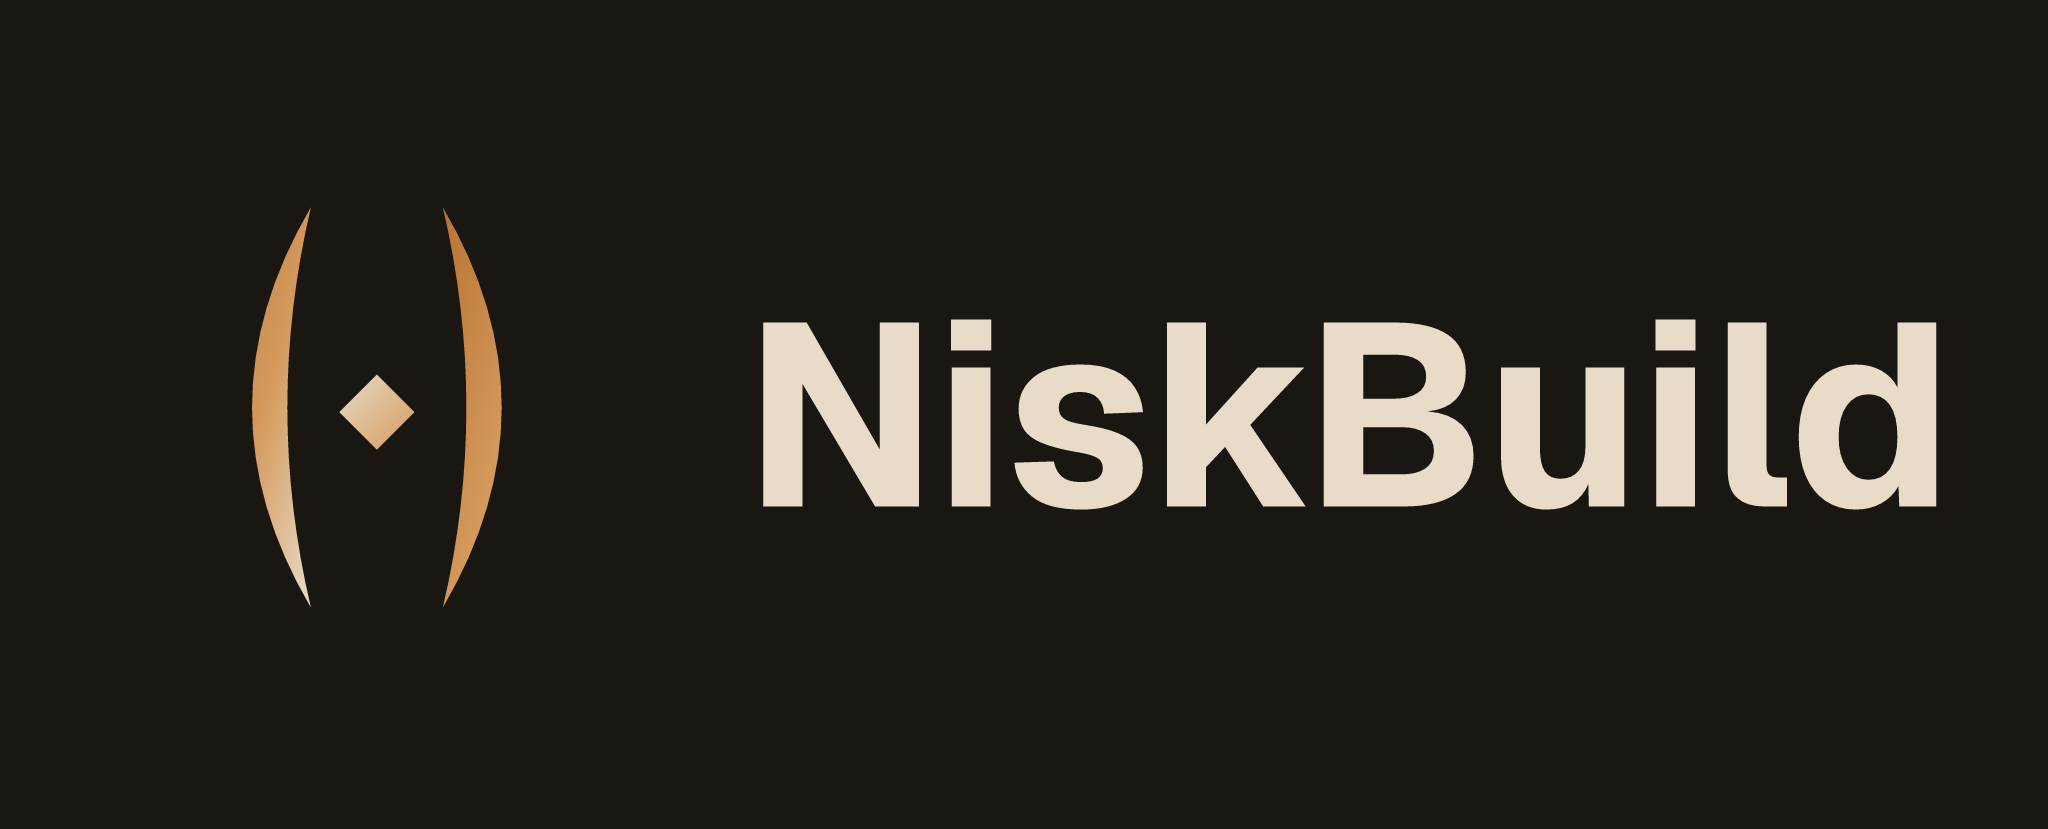
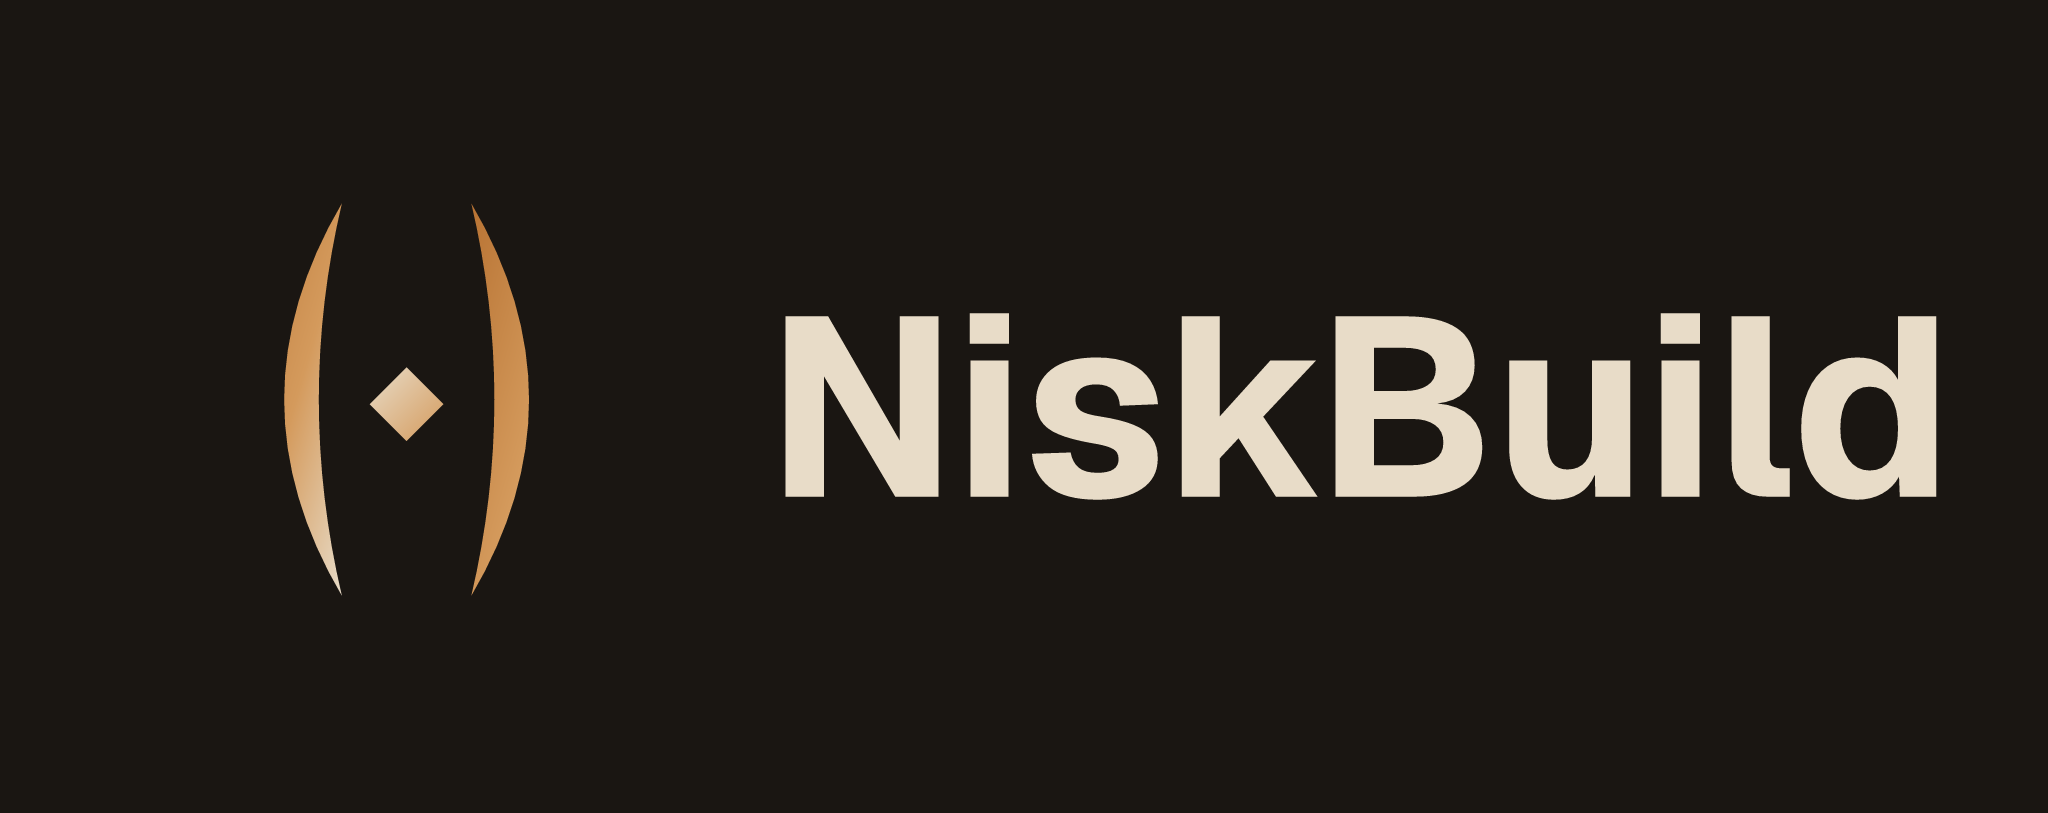
Brand kit: add typography-only wordmark download (dark + transparent), fix lockup dark-plate padding/contour, fix transparent lockup text contrast with iron fill + copper stroke

Changed region(s): [[0.375, 0.369, 0.8125, 0.615], [0.125, 0.2768, 0.2812, 0.7073], [0.8438, 0.3998, 0.875, 0.615]]

diff --git a/lib/brand-assets.ts b/lib/brand-assets.ts
@@ -36,14 +36,24 @@ export const BRAND_LOGO = {
     aspectRatio: 1,
     alt: 'NiskBuild',
   },
+  wordmarkDark: {
+    src: '/brand/niskbuild-wordmark-dark.svg',
+    aspectRatio: 1189 / 354,
+    alt: 'NiskBuild wordmark on dark plate',
+  },
+  wordmarkTransparent: {
+    src: '/brand/niskbuild-wordmark-transparent.svg',
+    aspectRatio: 1195 / 360,
+    alt: 'NiskBuild wordmark (transparent)',
+  },
   wordmarkLockupDark: {
     src: '/brand/niskbuild-wordmark-lockup-dark.svg',
-    aspectRatio: 1739 / 704,
+    aspectRatio: 1773 / 704,
     alt: 'NiskBuild wordmark lockup on dark plate',
   },
   wordmarkLockupTransparent: {
     src: '/brand/niskbuild-wordmark-lockup-transparent.svg',
-    aspectRatio: 1739 / 704,
+    aspectRatio: 1779 / 710,
     alt: 'NiskBuild wordmark lockup (transparent)',
   },
 } as const;
@@ -90,7 +100,7 @@ export const BRAND_PALETTE_SWATCHES = [
   { name: 'Cream light (preview)', token: 'creamLight', hex: BRAND_COLORS.creamLight, usage: 'Transparent-asset preview surface' },
   { name: 'Copper primary', token: '--copper-primary', hex: BRAND_COLORS.copperPrimary, usage: 'Buttons, borders, logo facets' },
   { name: 'Copper light / melt', token: '--copper-melt', hex: BRAND_COLORS.copperMelt, usage: 'Links on Docs, taglines, highlights' },
-  { name: 'Cream / parchment', token: '--foreground', hex: BRAND_COLORS.parchment, usage: 'Body text + wordmark fill' },
+  { name: 'Cream / parchment', token: '--foreground', hex: BRAND_COLORS.parchment, usage: 'Body text on dark UI / dark-plate wordmarks' },
 ] as const;
 
 function iconSizes(variant: 'dark' | 'transparent'): IconSizeOption[] {
@@ -147,16 +157,53 @@ export const BRAND_ASSET_GROUPS: BrandAssetGroup[] = [
     ],
   },
   {
+    id: 'wordmark-typography',
+    title: 'Wordmark typography',
+    blurb:
+      '“NiskBuild” only — Geist Bold outlined paths, no icon. SVG + PNG at 2048px wide. Transparent uses iron fill + copper outline for contrast on light grounds.',
+    paired: true,
+    assets: [
+      {
+        id: 'wordmark-dark',
+        label: 'Wordmark — dark plate',
+        description: 'Typography only on forge dark (#1a1612). Parchment fill for dark UI and banners.',
+        useCase: 'Nav bars · Footers · Dark social',
+        previewSrc: BRAND_LOGO.wordmarkDark.src,
+        previewBg: 'dark',
+        svgHref: '/brand/niskbuild-wordmark-dark.svg',
+        svgFilename: 'niskbuild-wordmark-dark.svg',
+        pngHref: '/brand/niskbuild-wordmark-dark-2048.png',
+        pngFilename: 'niskbuild-wordmark-dark-2048.png',
+        pngWidth: 2048,
+        pngHeight: 610,
+      },
+      {
+        id: 'wordmark-transparent',
+        label: 'Wordmark — transparent',
+        description: 'Typography only, no background. Iron fill (#1a1612) with copper stroke for legibility on light/neutral surfaces.',
+        useCase: 'Light layouts · Print · Watermarks',
+        previewSrc: BRAND_LOGO.wordmarkTransparent.src,
+        previewBg: 'light',
+        svgHref: '/brand/niskbuild-wordmark-transparent.svg',
+        svgFilename: 'niskbuild-wordmark-transparent.svg',
+        pngHref: '/brand/niskbuild-wordmark-transparent-2048.png',
+        pngFilename: 'niskbuild-wordmark-transparent-2048.png',
+        pngWidth: 2048,
+        pngHeight: 617,
+      },
+    ],
+  },
+  {
     id: 'wordmark-lockups',
     title: 'Wordmark lockup',
     blurb:
-      'Icon + “NiskBuild” in Geist Bold (outlined paths — portable, no font install). SVG vector + PNG at 2048px wide.',
+      'Icon + “NiskBuild” in Geist Bold (outlined paths). SVG vector + PNG at 2048px wide. Dark plate fully padded to the mark contour.',
     paired: true,
     assets: [
       {
         id: 'lockup-dark',
         label: 'Lockup — dark plate',
-        description: 'Icon + Geist wordmark on forge dark (#1a1612). Matches the in-app logo treatment.',
+        description: 'Icon + Geist wordmark on forge dark (#1a1612), plate sized to fully contain the lockup with padding.',
         useCase: 'Press headers · Dark social · Presentations',
         previewSrc: BRAND_LOGO.wordmarkLockupDark.src,
         previewBg: 'dark',
@@ -165,13 +212,13 @@ export const BRAND_ASSET_GROUPS: BrandAssetGroup[] = [
         pngHref: '/brand/niskbuild-wordmark-lockup-dark-2048.png',
         pngFilename: 'niskbuild-wordmark-lockup-dark-2048.png',
         pngWidth: 2048,
-        pngHeight: 829,
+        pngHeight: 813,
       },
       {
         id: 'lockup-transparent',
         label: 'Lockup — transparent',
-        description: 'Same lockup with transparent background. Wordmark fill is parchment (#e8dcc8).',
-        useCase: 'Light or dark layouts · Watermarks · Slide decks',
+        description: 'Same lockup, no plate. Wordmark uses iron fill + copper outline so it stays readable on light backgrounds; icon keeps the copper gradient.',
+        useCase: 'Light layouts · Slide decks · Co-branding',
         previewSrc: BRAND_LOGO.wordmarkLockupTransparent.src,
         previewBg: 'light',
         svgHref: '/brand/niskbuild-wordmark-lockup-transparent.svg',
@@ -179,7 +226,7 @@ export const BRAND_ASSET_GROUPS: BrandAssetGroup[] = [
         pngHref: '/brand/niskbuild-wordmark-lockup-transparent-2048.png',
         pngFilename: 'niskbuild-wordmark-lockup-transparent-2048.png',
         pngWidth: 2048,
-        pngHeight: 829,
+        pngHeight: 817,
       },
     ],
   },
